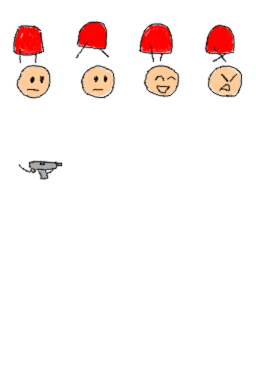
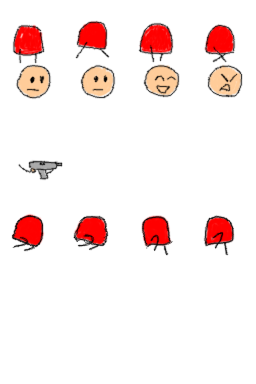
player jumping around with animation

diff --git a/core/src/com/madeso/platformer/Player.java b/core/src/com/madeso/platformer/Player.java
@@ -1,0 +1,107 @@
+package com.madeso.platformer;
+
+import com.badlogic.gdx.Gdx;
+import com.badlogic.gdx.Input;
+import com.badlogic.gdx.graphics.OrthographicCamera;
+import com.badlogic.gdx.graphics.g2d.SpriteBatch;
+
+public class Player extends GravityObject {
+
+    private final SmartAnimation headHappy;
+    private final SmartAnimation bodyJump;
+    private final SmartAnimation bodyFall;
+    private float airtime = 0.0f;
+
+    private final SmartAnimation bodyIdle;
+    private final SmartAnimation headIdle;
+    private final SmartAnimation gunIdle;
+    private final AnimationGroup body;
+    private final AnimationGroup head;
+    private final AnimationGroup gun;
+    private final SmartAnimation bodyRun;
+
+    public Player(PlatformGame game) {
+        super(game);
+
+        String path = "player.png";
+        this.bodyIdle = game.assetManager.animation(this.destructor, path).setAnimation(0.5f, new int[][]{ {0,0} });
+        this.bodyRun = game.assetManager.animation(this.destructor, path).setAnimation(0.10f, new int[][]{ {0,1}, {0,2}, {0,3}, {0,2} });
+        this.bodyJump = game.assetManager.animation(this.destructor, path).setAnimation(0.1f, new int[][]{ {3,0},{3,1} });
+        this.bodyFall = game.assetManager.animation(this.destructor, path).setAnimation(0.1f, new int[][]{ {3,2},{3,3} });
+
+        this.headIdle = game.assetManager.animation(this.destructor, path).setAnimation(0.5f, new int[][]{ {1,0}, {1,1} });
+        this.headHappy = game.assetManager.animation(this.destructor, path).setAnimation(0.5f, new int[][]{ {1,2} });
+
+        this.gunIdle = game.assetManager.animation(this.destructor, path).setAnimation(0.5f, new int[][]{ {2,0} });
+
+        this.body = this.createGroup(this.bodyIdle);
+        this.head = this.createGroup(this.headIdle);
+        this.gun = this.createGroup(this.gunIdle);
+    }
+
+    @Override
+    protected void subupdate(float dt) {
+        float dx = 0;
+        float speed = 64 * 3;
+
+        boolean moving = false;
+
+        if( IsDown(Input.Keys.LEFT, Input.Keys.A) ) {
+            dx -= 1;
+            moving = true;
+        }
+
+        if( IsDown(Input.Keys.RIGHT, Input.Keys.D) ) {
+            dx += 1;
+            moving = true;
+        }
+
+        if( IsDown(Input.Keys.UP, Input.Keys.W) ) {
+            this.jump(100);
+        }
+
+        if( this.latestFlags.down ) {
+            if (moving) {
+                body.changeAnimation(bodyRun);
+            } else {
+                body.changeAnimation(bodyIdle);
+            }
+        }
+        else {
+            if( this.vy > 0 ) {
+                body.changeAnimation(bodyJump);
+            }
+            else {
+                body.changeAnimation(bodyFall);
+            }
+        }
+
+        if( this.latestFlags.down ) {
+            this.airtime = 0;
+        }
+        else {
+            this.airtime += dt;
+        }
+
+        if( this.airtime > 0.5f ) {
+            this.head.changeAnimation(headHappy);
+        }
+        else {
+            this.head.changeAnimation(headIdle);
+        }
+
+        dx *= dt * speed;
+        this.move(dx,0);
+    }
+
+    private boolean IsDown(int a, int b) {
+        return Gdx.input.isKeyPressed(a) || Gdx.input.isKeyPressed(b);
+    }
+
+    @Override
+    public void render(SpriteBatch batch, OrthographicCamera cam) {
+        subrender(this.body, batch, cam);
+        subrender(this.head, batch, cam);
+        subrender(this.gun, batch, cam);
+    }
+}

diff --git a/core/src/com/madeso/platformer/GameScreen.java b/core/src/com/madeso/platformer/GameScreen.java
@@ -17,10 +17,11 @@ public class GameScreen implements Screen {
     private final OrthographicCamera fontCamera;
     private OrthographicCamera worldCamera;
     PlatformGame game;
-    Dude dude;
+    Player dude;
     OrthoMap map;
     List<WorldObject> moveables;
     Music music;
+    Destructor destructor = new Destructor();
 
     public GameScreen(PlatformGame game, int id) {
         this.game = game;
@@ -33,9 +34,9 @@ public class GameScreen implements Screen {
         String levelpath = "level" + Integer.toString(id) + ".tmx";
         String musicpath = "music" + Integer.toString(id) + ".ogg";
 
-        this.map = game.assetManager.orthoMap(levelpath);
+        this.map = game.assetManager.orthoMap(destructor, levelpath);
 
-        this.dude = new Dude(game);
+        this.dude = new Player(game);
         this.dude.teleport(70,70);
         this.moveables.add(this.dude);
 
@@ -48,8 +49,6 @@ public class GameScreen implements Screen {
     public void render(float delta) {
         Gdx.gl.glClearColor(0, 0, 0, 1);
         Gdx.gl.glClear(GL20.GL_COLOR_BUFFER_BIT);
-
-        movePlayer(dude, delta);
         for (WorldObject m : moveables) {
             m.update(delta);
         }
@@ -86,34 +85,6 @@ public class GameScreen implements Screen {
         return MathUtils.round(smooth * x) / smooth;
     }
 
-    private void movePlayer(Dude player, float delta) {
-        float dx = 0;
-        float speed = 64 * 3;
-
-        if( IsDown(Input.Keys.LEFT, Input.Keys.A) ) {
-            dx -= 1;
-        }
-
-        if( IsDown(Input.Keys.RIGHT, Input.Keys.D) ) {
-            dx += 1;
-        }
-
-        if( IsDown(Input.Keys.UP, Input.Keys.W) ) {
-            player.jump(100);
-        }
-
-        if( IsDown(Input.Keys.SHIFT_LEFT, Input.Keys.SHIFT_RIGHT)) {
-            speed = speed * 0.01f;
-        }
-
-        dx *= delta * speed;
-        player.move(dx,0);
-    }
-
-    private boolean IsDown(int a, int b) {
-        return Gdx.input.isKeyPressed(a) || Gdx.input.isKeyPressed(b);
-    }
-
     @Override
     public void resize(int width, int height) {
         Vector3 oldPos = new Vector3(worldCamera.position);
@@ -141,8 +112,10 @@ public class GameScreen implements Screen {
 
     @Override
     public void dispose() {
-        this.map.dispose();
-        dude.dispose();
+        this.destructor.dispose();
+        for (WorldObject m : moveables) {
+            m.dispose();
+        }
         music.stop();
         music.dispose();
     }

diff --git a/core/src/com/madeso/platformer/WorldObject.java b/core/src/com/madeso/platformer/WorldObject.java
@@ -4,6 +4,10 @@ import com.badlogic.gdx.graphics.OrthographicCamera;
 import com.badlogic.gdx.graphics.g2d.SpriteBatch;
 import com.badlogic.gdx.graphics.g2d.TextureRegion;
 import com.badlogic.gdx.utils.Disposable;
+import javafx.animation.Animation;
+
+import java.util.ArrayList;
+import java.util.List;
 
 public abstract class WorldObject implements Disposable, Moveable {
     private final PlatformGame game;
@@ -15,9 +19,11 @@ public abstract class WorldObject implements Disposable, Moveable {
     private float targetY = 0;
     private float suggestedX = 0;
     private float suggestedY = 0;
-    private float time = 0.0f;
     private boolean drawSuggested = false;
     private boolean collideWithWorld = true;
+    private List<AnimationGroup> groups = new ArrayList<AnimationGroup>();
+
+    protected Destructor destructor = new Destructor();
 
     protected CollisionFlags latestFlags = new CollisionFlags();
 
@@ -27,6 +33,7 @@ public abstract class WorldObject implements Disposable, Moveable {
 
     @Override
     public void dispose() {
+        destructor.dispose();
     }
 
     public void teleport(float x, float y) {
@@ -41,10 +48,20 @@ public abstract class WorldObject implements Disposable, Moveable {
         targetY += dy;
     }
 
+    protected abstract void subupdate(float dt);
 
    void update(float dt) {
-       this.time += dt;
+       for(AnimationGroup g : groups) {
+           g.update(dt);
+       }
+       subupdate(dt);
    }
+
+    protected AnimationGroup createGroup(SmartAnimation animation) {
+        AnimationGroup g = new AnimationGroup(animation);
+        this.groups.add(g);
+        return g;
+    }
 
     @Override
     public String toString() {
@@ -53,10 +70,10 @@ public abstract class WorldObject implements Disposable, Moveable {
 
     public abstract void render(SpriteBatch batch, OrthographicCamera cam);
 
-    public void subrender(SmartAnimation animation, SpriteBatch batch, OrthographicCamera cam) {
+    public void subrender(AnimationGroup animation, SpriteBatch batch, OrthographicCamera cam) {
         float size = 64f;
 
-        TextureRegion reg = animation.animation.getKeyFrame(this.time, true);
+        TextureRegion reg = animation.getAnimation().getKeyFrame(animation.getTime(), true);
 
         batch.draw(reg, x, y, size, size);
 

diff --git a/core/src/com/madeso/platformer/SmartAssetManager.java b/core/src/com/madeso/platformer/SmartAssetManager.java
@@ -20,9 +20,10 @@ public class SmartAssetManager implements Disposable {
         assetsToLoad = new ArrayList<PostLoader>();
     }
     
-    public SmartTexture texture(String name) {
+    public SmartTexture texture(Destructor destructor, String name) {
         SmartTexture texture = new SmartTexture(this.assetManager, name);
         assetsToLoad.add(texture);
+        destructor.add(texture);
         return texture;
     }
 
@@ -54,21 +55,23 @@ public class SmartAssetManager implements Disposable {
         return this.assetManager.getProgress();
     }
 
-    public OrthoMap orthoMap(String path) {
+    public OrthoMap orthoMap(Destructor destructor, String path) {
         OrthoMap map = new OrthoMap(this.assetManager, path);
         assetsToLoad.add(map);
+        destructor.add(map);
         return map;
     }
 
-    public SmartRegion region(String name) {
+    public SmartRegion region(Destructor destructor, String name) {
         SmartRegion region = new SmartRegion(this.assetManager, name);
         assetsToLoad.add(region);
         return region;
     }
 
-    public SmartAnimation animation(String name) {
+    public SmartAnimation animation(Destructor destructor, String name) {
         SmartAnimation animation = new SmartAnimation(this.assetManager, name);
         assetsToLoad.add(animation);
+        destructor.add(animation);
         return animation;
     }
 }

diff --git a/core/src/com/madeso/platformer/GravityObject.java b/core/src/com/madeso/platformer/GravityObject.java
@@ -1,22 +1,15 @@
 package com.madeso.platformer;
 
-import com.badlogic.gdx.graphics.OrthographicCamera;
-import com.badlogic.gdx.graphics.g2d.SpriteBatch;
-
-public class Dude extends WorldObject {
-    private final SmartAnimation animation;
+public abstract class GravityObject extends WorldObject {
     float vy = 0;
     float mvy = 64*20;
     float gravity = -600;
 
-    public Dude(PlatformGame game) {
+    public GravityObject(PlatformGame game) {
         super(game);
-
-        this.animation = game.assetManager.animation("player.png").setAnimation(0.5f, new int[][]{ {0,0}, {0,1} });
     }
     @Override
     public void dispose() {
-        this.animation.dispose();
     }
 
     @Override
@@ -28,11 +21,6 @@ public class Dude extends WorldObject {
         }
         move(0, vy*dt);
         if( this.latestFlags.y() ) this.vy = 0;
-    }
-
-    @Override
-    public void render(SpriteBatch batch, OrthographicCamera cam) {
-        this.subrender(this.animation, batch, cam);
     }
 
     public void jump(float strength) {

diff --git a/core/src/com/madeso/platformer/AnimationGroup.java b/core/src/com/madeso/platformer/AnimationGroup.java
@@ -1,0 +1,31 @@
+package com.madeso.platformer;
+
+import com.badlogic.gdx.graphics.g2d.Animation;
+
+public class AnimationGroup {
+    float state = 0;
+    private SmartAnimation animation;
+
+    public AnimationGroup(SmartAnimation animation) {
+        this.animation = animation;
+    }
+
+    public void update(float dt) {
+        state += dt;
+    }
+
+    public void changeAnimation(SmartAnimation animation) {
+        if( animation != this.animation ) {
+            state = 0;
+            this.animation = animation;
+        }
+    }
+
+    public Animation getAnimation() {
+        return this.animation.animation;
+    }
+
+    public float getTime() {
+        return state;
+    }
+}

diff --git a/core/src/com/madeso/platformer/Destructor.java b/core/src/com/madeso/platformer/Destructor.java
@@ -1,0 +1,22 @@
+package com.madeso.platformer;
+
+
+import com.badlogic.gdx.utils.Disposable;
+
+import java.util.ArrayList;
+import java.util.List;
+
+public class Destructor implements Disposable {
+    List<Disposable> disposables = new ArrayList<Disposable>();
+    public Destructor add(Disposable d) {
+        disposables.add(d);
+        return this;
+    }
+
+    @Override
+    public void dispose() {
+        for(Disposable d : disposables) {
+            d.dispose();
+        }
+    }
+}
